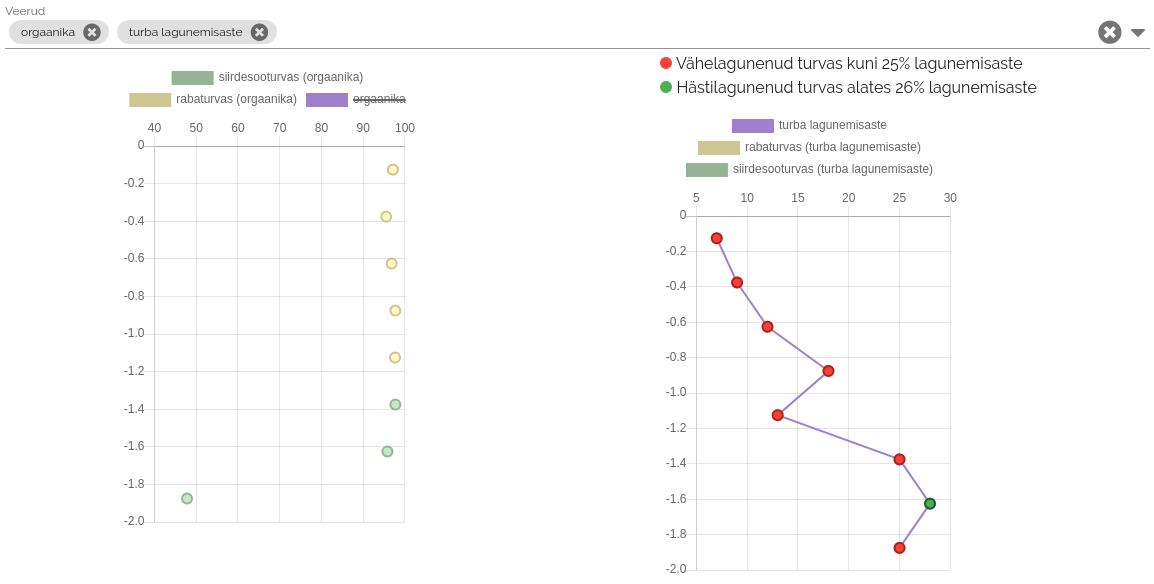
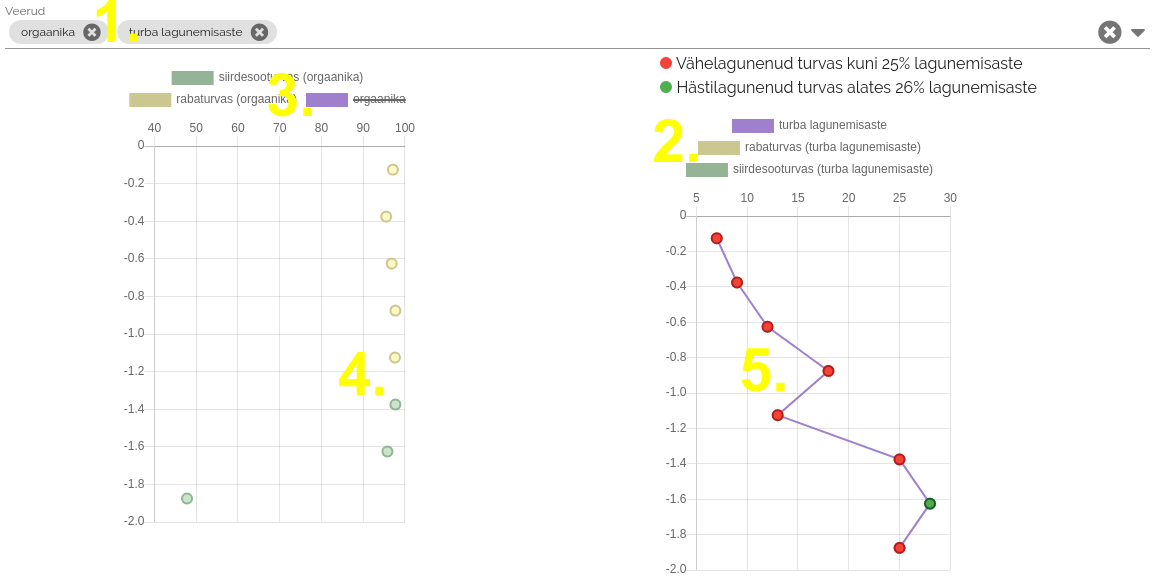
#33

diff --git a/src/components/user_manual/ChartTab.vue b/src/components/user_manual/ChartTab.vue
@@ -5,59 +5,71 @@
         Graafikute tutvustus ja õpetus
       </v-card-title>
 
-      <v-card flat class="d-flex flex-column flex-md-row justify-space-between">
+      <v-card
+        flat
+        class="d-flex flex-column flex-lg-row flex-column-reverse justify-space-between"
+      >
         <v-card flat>
           <v-card-text class="pa-2">
-            Graafik koosneb järgnevatest funktsioonidest:K
+            <div class="mb-2">
+              <b>Y-telg</b> näitab kui <b>sügavalt</b> maapinnast on proov
+              võetud, ning <b>X-telg</b> näitab valitud parameetri
+              <b>väärtust</b>.
+            </div>
+
+            Graafik koosneb järgnevatest funktsioonidest:
             <ol>
               <li>
-                <b>Pluss</b> ja <b>miinus</b> nupp kaardi suurendamiseks ja
-                vähendamiseks.
-              </li>
-
-              <li><b>"Kasti"</b> nupp kaardi täisekraanile panekuks.</li>
-
-              <li>
-                <b>Kaardikihi</b> nupp, millega saab valida erinevaid
-                kaardikihte
+                Graafikul <b>kuvatava andmestiku valimine</b>, igale valikule
+                vastab üks graafik.
               </li>
 
               <li>
-                Näitab hiirekursori abil hetkelist <b>laius- ja pikkuskraadi</b>
+                Graafiku <b>legend</b>, mis näitab värvidena, et mis info
+                graafikul asetseb
               </li>
 
-              <li>Kaardi <b>legend</b></li>
+              <li>
+                Graafiku legendi peale <b>vajutades</b> on võimalik
+                <b>peita ja kuvada</b> konkreetset andmestikku graafikul.
+              </li>
+
+              <li>
+                Graafikul olev andmestik on kuvatud <b>mummudena</b>. Ette antud
+                näite puhul on näha siirdesooturba ja rabaturba andmed.
+              </li>
+
+              <li>
+                Turba lagunemisastme puhul on lisaks näha
+                <b>roheliste ja punaste mummudena</b>, et kas on
+                <b>hästi- või vähelagunenud turvas</b>
+              </li>
             </ol>
 
-            <v-card flat class="d-flex flex-row mt-2">
-              <v-card flat class="pr-2">
-                <v-img
-                    max-width="50px"
+            <v-card flat class="d-flex flex-column mt-3">
+              <v-card flat class="mb-2">
+                Turba lagunemisastme puhul on toodud alljärgnevatel piltidel
+                näide, kuidas graafiku legendi peale vajutades on võimalik
+                kuvatavaid andmeid sisse ja välja lülitada.
+              </v-card>
+              <v-card flat class="d-flex flex-row">
+                <v-card flat>
+                  <v-img
+                    max-width="300px"
                     :src="
-                    require('@/assets/img/user_manual/map/map_crosshair.png')
-                  "
-                />
-              </v-card>
-              <v-card flat class="align-self-center">
-                Kui kaardil olev <b>kursor</b> on <b>risti</b> kujuga, siis on
-                võimalik vajutada <b>turbaalade</b> (rohelised) ja
-                <b>proovipunktide</b> (punased) peale.
-              </v-card>
-            </v-card>
+                      require('@/assets/img/user_manual/chart/chart_on.png')
+                    "
+                  />
+                </v-card>
 
-            <v-card flat class="d-flex flex-column flex-sm-row mt-2">
-              <v-card flat class="pr-2">
-                <v-img
-                    max-width="150px"
+                <v-card flat>
+                  <v-img
+                    max-width="300px"
                     :src="
-                    require('@/assets/img/user_manual/map/map_sites.png')
-                  "
-                />
-              </v-card>
-              <v-card flat class="align-self-center">
-                Kui kaardil on näha niisugune <b>kollane ikoon</b>, siis see on
-                <b>proovipunkt</b> ning selle peale vajutades suunatakse
-                kasutaja proovipunkti <b>detailvaatele</b>.
+                      require('@/assets/img/user_manual/chart/chart_off.png')
+                    "
+                  />
+                </v-card>
               </v-card>
             </v-card>
           </v-card-text>
@@ -65,8 +77,8 @@
 
         <v-card flat class="align-self-center pa-2">
           <v-img
-              max-width="500px"
-              :src="require('@/assets/img/user_manual/map/map.png')"
+            max-width="700px"
+            :src="require('@/assets/img/user_manual/chart/chart.png')"
           />
         </v-card>
       </v-card>

diff --git a/src/components/user_manual/MapTab.vue b/src/components/user_manual/MapTab.vue
@@ -5,7 +5,10 @@
         Kaardi tutvustus ja õpetus
       </v-card-title>
 
-      <v-card flat class="d-flex flex-column flex-md-row justify-space-between">
+      <v-card
+        flat
+        class="d-flex flex-column flex-md-row flex-column-reverse justify-space-between"
+      >
         <v-card flat>
           <v-card-text class="pa-2">
             Kaart koosneb järgnevatest funktsioonidest:
@@ -49,9 +52,7 @@
               <v-card flat class="pr-2">
                 <v-img
                   max-width="150px"
-                  :src="
-                    require('@/assets/img/user_manual/map/map_sites.png')
-                  "
+                  :src="require('@/assets/img/user_manual/map/map_sites.png')"
                 />
               </v-card>
               <v-card flat class="align-self-center">

diff --git a/src/store/modules/settings/index.js b/src/store/modules/settings/index.js
@@ -9,19 +9,19 @@ const state = {
   carouselSlides: [
     {
       id: 1,
-      src: "https://turvas.geoloogia.info/pildid/punasoo_raba.jpg"
+      src: "https://turvas.geoloogia.info/failid/pildid/punasoo_raba.jpg"
     },
     {
       id: 2,
-      src: "https://turvas.geoloogia.info/pildid/kakerdaja_raba.jpg"
+      src: "https://turvas.geoloogia.info/failid/pildid/kakerdaja_raba.jpg"
     },
     {
       id: 3,
-      src: "https://turvas.geoloogia.info/pildid/soosaare_raba.jpg"
+      src: "https://turvas.geoloogia.info/failid/pildid/soosaare_raba.jpg"
     },
     {
       id: 4,
-      src: "https://turvas.geoloogia.info/pildid/tuhu_soo.jpg"
+      src: "https://turvas.geoloogia.info/failid/pildid/tuhu_soo.jpg"
     }
   ],
   block: {

diff --git a/src/components/user_manual/CommonTab.vue b/src/components/user_manual/CommonTab.vue
@@ -11,7 +11,7 @@
             <v-card flat class="d-flex flex-column">
               <v-card flat>
                 <v-img
-                    max-width="1000px"
+                  max-width="1000px"
                   :src="
                     require('@/assets/img/user_manual/common/common_navbar.png')
                   "
@@ -40,7 +40,7 @@
               </v-card>
             </v-card>
 
-            <v-divider class="my-2"/>
+            <v-divider class="my-2" />
 
             <v-card flat class="d-flex flex-row">
               <v-card flat class="pr-2">

diff --git a/src/views/UserManual.vue b/src/views/UserManual.vue
@@ -6,7 +6,8 @@
       </v-card-title>
 
       <v-card-text>
-        Kasutusjuhendist leiab juhiseid, kuidas rakenduse peamised funktsioonid töötavad.
+        Kasutusjuhendist leiab juhiseid, kuidas rakenduse peamised funktsioonid
+        töötavad.
       </v-card-text>
 
       <v-tabs v-model="tab" grow>

diff --git a/src/components/site/Site.vue b/src/components/site/Site.vue
@@ -119,7 +119,7 @@
         <v-row no-gutters class="px-1">
           <v-col cols="12" class="pa-1">
             <AutocompleteWrapper
-              label="Veerud"
+              label="Vali graafikul kuvatav andmestik"
               chips
               clearable
               multiple
